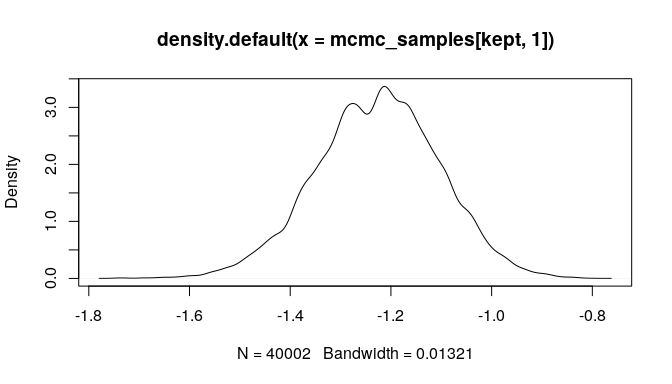
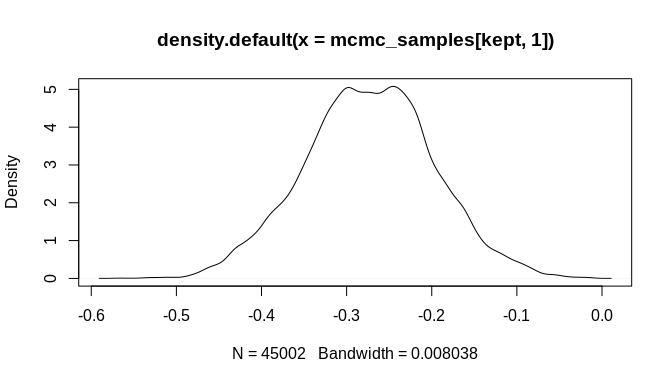
docs update

diff --git a/README.md b/README.md
@@ -58,7 +58,7 @@ nintervals <- 1000
 times <- 5000:4001
 beta <- -0.004
 process <- exp(1:nintervals * beta)
-nevents <- 200
+nevents <- 500
 nsamples <- 50000
 sim_sequences <- simulate_event_counts(process = process,
                             times = times,
@@ -138,9 +138,9 @@ X <- matrix(
         nrow = n)
 
 dim(Y)
-#> [1]  1372 50000
+#> [1]  1354 50000
 dim(X)
-#> [1]   1372 100000
+#> [1]   1354 100000
 
 Y[1:5, 1:10]
 #>      [,1] [,2] [,3] [,4] [,5] [,6] [,7] [,8] [,9] [,10]
@@ -174,7 +174,6 @@ mcmc_samples_adapt <- regress(Y = Y,
                             startvals = startvals,
                             scales = startscales,
                             adapt = T)
-#> 
 ```
 
 With 'adapt' set to TRUE, the 'regress' function returns a list with three elements. One is a matrix containing the MCMC chains---each model parameter is represented by a separate column. The second is a matrix containing acceptance rates for all parameters recorded throughout the simulation at regular intervals (defined by other 'regress' function arguments detailed in the manpage for the function). The last element is a matrix containing the scales tried and used by the algorithm. With this information we can run 'regress' again, but use adapted estimates for the new startvals and startscales, which should improve the convergence of the MCMC leading to better samples of posterior distributions with fewer iterations overall. The MCMC chain samples produced with 'adapt' set to 'TRUE', however, should be discarded as burn-in before further analyses.
@@ -182,11 +181,11 @@ With 'adapt' set to TRUE, the 'regress' function returns a list with three eleme
 So, now we can establish new startvals and startscales given the results of the adaptive MCMC. We will discard some number of samples as burn-in (say, the first 20%) and then use the average of the remaining samples for the new values:
 
 ``` r
-burnin <- floor(dim(mcmc_samples_adapt$samples)[1] * 0.2)
+burnin <- floor(dim(mcmc_samples_adapt$samples)[1] * 0.1)
 indeces <- seq(burnin, dim(mcmc_samples_adapt$samples)[1], 1)
 new_startvals <- colMeans(mcmc_samples_adapt$samples[indeces,])
 
-burnin <- floor(dim(mcmc_samples_adapt$scales)[1] * 0.2)
+burnin <- floor(dim(mcmc_samples_adapt$scales)[1] * 0.1)
 indeces <- seq(burnin, dim(mcmc_samples_adapt$scales)[1], 1)
 new_startscales <- colMeans(mcmc_samples_adapt$scales[indeces,])
 
@@ -196,22 +195,21 @@ mcmc_samples <- regress(Y = Y,
                         startvals = new_startvals,
                         scales = new_startscales,
                         adapt = F)
-#> 
 
 head(mcmc_samples)
-#>           [,1]         [,2]
-#> [1,] -1.228793 -0.001180995
-#> [2,] -1.228793 -0.001180995
-#> [3,] -1.228793 -0.001180995
-#> [4,] -1.228793 -0.001180995
-#> [5,] -1.228793 -0.001180995
-#> [6,] -1.216770 -0.001140104
+#>            [,1]         [,2]
+#> [1,] -0.2754904 -0.001234745
+#> [2,] -0.2754904 -0.001234745
+#> [3,] -0.2754904 -0.001234745
+#> [4,] -0.2803615 -0.001234745
+#> [5,] -0.2803615 -0.001234745
+#> [6,] -0.2803615 -0.001234745
 ```
 
 When 'adapt' is set to 'FALSE', the function returns the MCMC chains. With enough iterations, the chains will likely contain good samples of the posterior distributions corresponding to the model's parameters. These can be inspected further with standard tools, including those in the 'coda' MCMC package. Here will will simply plot the chains as line-plots and then plot some density estimates to get a quick look at the results:
 
 ``` r
-burnin <- floor(dim(mcmc_samples)[1] * 0.2)
+burnin <- floor(dim(mcmc_samples)[1] * 0.1)
 kept <- seq(burnin, dim(mcmc_samples)[1], 1)
 
 plot(mcmc_samples[kept, 1], type = "l")
@@ -253,13 +251,12 @@ mcmc_samples_adapt <- regress(Y = Y[subinterval,],
                             startvals = startvals,
                             scales = startscales,
                             adapt = T)
-#> 
 
-burnin <- floor(dim(mcmc_samples_adapt$samples)[1] * 0.2)
+burnin <- floor(dim(mcmc_samples_adapt$samples)[1] * 0.1)
 indeces <- seq(burnin, dim(mcmc_samples_adapt$samples)[1], 1)
 new_startvals <- colMeans(mcmc_samples_adapt$samples[indeces,])
 
-burnin <- floor(dim(mcmc_samples_adapt$scales)[1] * 0.2)
+burnin <- floor(dim(mcmc_samples_adapt$scales)[1] * 0.1)
 indeces <- seq(burnin, dim(mcmc_samples_adapt$scales)[1], 1)
 new_startscales <- colMeans(mcmc_samples_adapt$scales[indeces,])
 
@@ -269,16 +266,15 @@ mcmc_samples <- regress(Y = Y[subinterval,],
                         startvals = new_startvals,
                         scales = new_startscales,
                         adapt = F)
-#> 
 
 head(mcmc_samples)
-#>           [,1]         [,2]
-#> [1,] 0.6549716 -0.003650824
-#> [2,] 0.6549716 -0.003650824
-#> [3,] 0.6549716 -0.003650824
-#> [4,] 0.6549716 -0.003650824
-#> [5,] 0.6549716 -0.003650824
-#> [6,] 0.6549716 -0.003650824
+#>          [,1]         [,2]
+#> [1,] 1.590566 -0.003719868
+#> [2,] 1.590566 -0.003719868
+#> [3,] 1.590566 -0.003719868
+#> [4,] 1.590566 -0.003719868
+#> [5,] 1.625469 -0.003719868
+#> [6,] 1.625469 -0.003719868
 ```
 
 As the plots below indicate, the initial bias is significantly reduced and the true parameter estimate ('beta', which was set to -0.004 above) is within the 95% credible interval of the estimated posterior distribution. Again, many more MCMC iterations will be required in order to arrive at good estimates of posterior distributions for the model parameters. The additional iterations will come from increasing the number of randomly sampled probable event count sequences. As a result, an even better estimate of the overall chronological uncertainty in the data can be obtained and then propagated up to the regression model parameter estimates. Additionally, using a Negative-Binomial (NB-REC) model instead would further reduce the bias, especially if the complete time domain of the event count ensemble is being analyzed instead of a subinterval.
